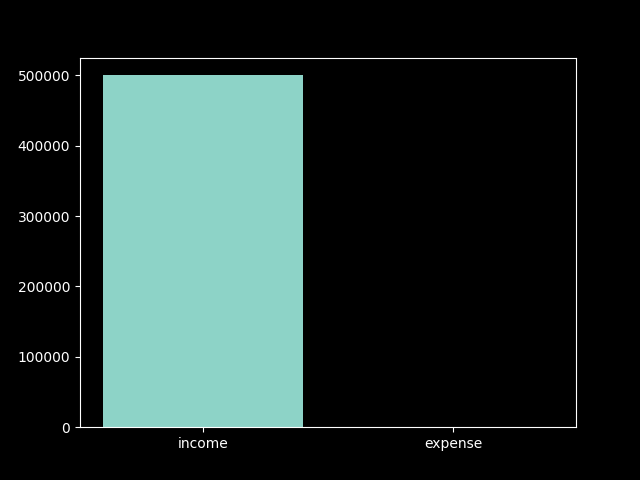
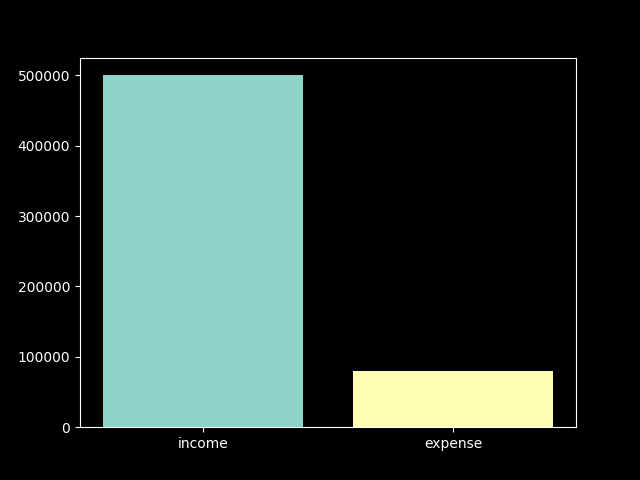
feature added: Dashboard filter

Changed region(s): [[0.5312, 0.75, 0.875, 0.9062]]

diff --git a/final_project/helpers.py b/final_project/helpers.py
@@ -95,56 +95,73 @@ def getBar(start, end, accId = None):
 
 
 
-def getLine(start, end):
-        # Connect DB, get user and query database
-        con = conDbDict()
-        cur = con.cursor()
-        user = getUser()
+def getLine(start, end, accId = None):
+     # Connect DB, get user and query database
+     con = conDbDict()
+     cur = con.cursor()
+     user = getUser()
 
-        data = cur.execute("SELECT trans_type, trans_date, SUM(amount_cents) AS day_tot FROM transactions WHERE created_by_user_id = ? AND trans_date BETWEEN ? and ? GROUP BY trans_type, trans_date ORDER BY trans_date", (user["id"], start, end,)).fetchall()
+     if (not accId):
+          data = cur.execute("SELECT trans_type, trans_date, SUM(amount_cents) AS day_tot FROM transactions WHERE created_by_user_id = ? AND trans_date BETWEEN ? and ? GROUP BY trans_type, trans_date ORDER BY trans_date", (user["id"], start, end,)).fetchall()
+          
+          con.close()
 
-        # Expense vars 
-        expense_dates = []
-        expense_runtot = []
-        expnse_cumsum = 0
+     # accId passed through
+     else:
+          data = cur.execute("SELECT trans_type, trans_date, SUM(amount_cents) AS day_tot FROM transactions WHERE created_by_user_id = ? AND account_id = ? AND trans_date BETWEEN ? and ? GROUP BY trans_type, trans_date ORDER BY trans_date", (user["id"], accId, start, end,)).fetchall()
+          
+          con.close()
 
-        for i in data:
-            # Append expense data to expense vars
-            if (i["trans_type"] == TYPES[0]):
-                try:
+
+     # Expense vars 
+     expense_dates = []
+     expense_runtot = []
+     expnse_cumsum = 0
+
+     for i in data:
+          # Append expense data to expense vars
+          if (i["trans_type"] == TYPES[0]):
+               try:
                     dt = datetime.fromisoformat(i["trans_date"])
-                except:
+               except:
                     dt = datetime.strptime(i["trans_date"], "%Y-%m-%d")
-                expense_dates.append(dt)
-                expnse_cumsum += i["day_tot"]
-                expense_runtot.append(expnse_cumsum)
 
-        # Plot and save graph
-        plt.style.use('dark_background')
-        fig, ax = plt.subplots()
-        ax.plot(expense_dates, expense_runtot, '-o')
-        # ax.plot(income_dates, income_runtot, '-o')
-        ax.xaxis.set_major_formatter(mdates.DateFormatter("%d/%m"))
-        plt.savefig('static/my_line-expsnses.png') # Todo: Should probably add user id to name to allow multiple users 
-       
-        con.close()
+               expense_dates.append(dt)
+               expnse_cumsum += i["day_tot"]
+               expense_runtot.append(expnse_cumsum)
 
-       # Verify 
-        if os.path.exists("static/my_line-expsnses.png"):
-            return True
-        else: 
-             return False
+     # Plot and save graph
+     plt.style.use('dark_background')
+     fig, ax = plt.subplots()
+     ax.plot(expense_dates, expense_runtot, '-o')
+     # ax.plot(income_dates, income_runtot, '-o')
+     ax.xaxis.set_major_formatter(mdates.DateFormatter("%d/%m"))
+     plt.savefig('static/my_line-expsnses.png') # Todo: Should probably add user id to name to allow multiple users 
+     
+     
+
+     # Verify 
+     if os.path.exists("static/my_line-expsnses.png"):
+          return True
+     else: 
+          return False
 
 
-def getPie(start, end):
+def getPie(start, end, accId = None):
 
      con = conDbDict()
      cur = con.cursor()
      user = getUser()
 
-     data = cur.execute("SELECT category, sum(amount_cents) as totals FROM transactions WHERE created_by_user_id = ? AND trans_type = ? AND trans_date BETWEEN ? AND ? GROUP BY category ORDER BY totals", (user["id"], TYPES[0], start, end,)).fetchall()
+     if (not accId):
+          data = cur.execute("SELECT category, sum(amount_cents) as totals FROM transactions WHERE created_by_user_id = ? AND trans_type = ? AND trans_date BETWEEN ? AND ? GROUP BY category ORDER BY totals", (user["id"], TYPES[0], start, end,)).fetchall()
 
-     con.close()
+          con.close()
+
+     else:
+          data = cur.execute("SELECT category, sum(amount_cents) as totals FROM transactions WHERE created_by_user_id = ? AND account_id = ? AND trans_type = ? AND trans_date BETWEEN ? AND ? GROUP BY category ORDER BY totals", (user["id"], accId, TYPES[0], start, end,)).fetchall()
+
+          con.close()
 
      categories = []
      totals = []

diff --git a/final_project/app.py b/final_project/app.py
@@ -347,7 +347,6 @@ def get_charts():
 
         categories = getCats()
 
-
         # Request user filters & set empty fields to None
         account = request.form.get("filter-account-id")
         if (account == ""):
@@ -391,11 +390,10 @@ def get_charts():
             flash("Error: Please end date must be after start date")
             return redirect("/")
                 
-        
-        
 
-        #Todo: case filtration
+        # Match case based on filter options
         match (account, category, trxType):
+
             # No Filters - Date only
             case (None, None, None):
                 try:
@@ -417,62 +415,28 @@ def get_charts():
                 transactions = getTrxData(start, end)
 
                 return render_template("index.html", accounts=accounts, categories=categories, bar="static/my_bar_expesne_vs_income.png", chart="static/my_line-expsnses.png", pie="static/my_pie_expenses.png", start=start, end=end, transactions=transactions, types=TYPES, user=user)
-
+            
+            # Account filtered
             case (account, None, None):
-                # todo: add other graphes edit function to allow id filter 
                 try:
                     getBar(start, end, account)
                 except:
                     return render_template("error.html", message="Error with bar graph")
                 
+                try:
+                    getLine(start, end, account)
+                except:
+                    return render_template("error.html", message="Error with line graph")
+                
+                try:
+                    getPie(start, end, account)
+                except:
+                    return render_template("error.html", message="Error with pie graph")
+                        
                 transactions = getTrxData(start, end, account)
 
                 return render_template("index.html", accounts=accounts, categories=categories, bar="static/my_bar_expesne_vs_income.png", chart="static/my_line-expsnses.png", pie="static/my_pie_expenses.png", start=start, end=end, transactions=transactions, types=TYPES, user=user)
 
-            # Folowing filters all apply date filtration
-
-            # account only
-                # All std graphs
-
-            # All other filters result in transaction search only, must null graphs and check in flask to not render empty graphs
-            # account & category
-            # account & trxType
-            # account & category & trxType
-
-            # category only
-            # category & trxType
-
-            # trxType only
-
-        # 1: no filters
-
-
-        # Todo: get rid
-        # Line graph: Expense over time
-        try:
-            getLine(start, end)
-        except:
-            return render_template("error.html", message="Error with line graph")
-        
-        # Bar graph: income vs expense
-        try:
-            getBar(start, end)
-        except:
-            return render_template("error.html", message="Error with bar graph")
-
-        # Pie chart: spend by category
-        try:
-            getPie(start, end)
-        except:
-            return render_template("error.html", message="Error with pie graph")
-        
-
-        # Query DB transactions by date only   
-        transactions = getTransDate(start, end)
-
-               
-        # Render index
-        return render_template("index.html", accounts=accounts, categories=categories, bar="static/my_bar_expesne_vs_income.png", chart="static/my_line-expsnses.png", pie="static/my_pie_expenses.png", start=start, end=end, transactions=transactions, types=TYPES, user=user)
 
 
 # Login
@@ -583,6 +547,19 @@ def manage_transactions():
 
         return render_template("manage_transactions.html", accounts=accounts, categories=categories, transactions=trasactions, types=TYPES)
     
+    # todo: case match for search/filter ase bellow
+
+        # account only
+
+        # account & category
+        # account & trxType
+        # account & category & trxType
+
+        # category only
+        
+        # category & trxType
+
+        # trxType only
 
 # Register user
 @app.route("/register", methods=["GET", "POST"])
